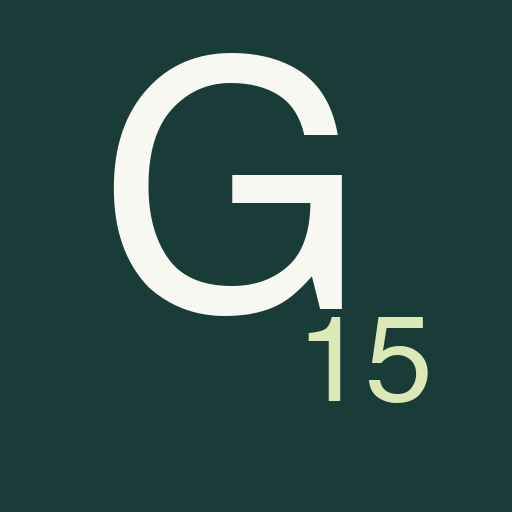
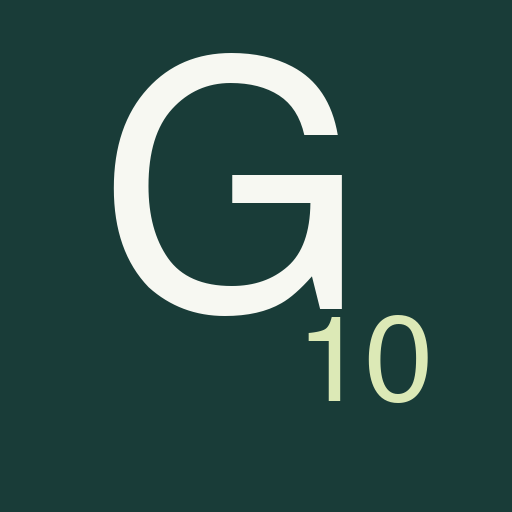
Reduce GEPT daily new word goal to 10 and preserve existing progress

Changed region(s): [[0.7188, 0.5938, 0.8438, 0.7812]]

diff --git a/source_materials/desktop-bobo/gept-daily15/app.js b/source_materials/desktop-bobo/gept-daily15/app.js
@@ -51,9 +51,9 @@ function home(){
  let exam=state.exam;let remain=exam?Math.ceil((new Date(exam+'T23:59:59')-new Date())/86400000):null;
  let days=Object.keys(state.days).filter(k=>state.days[k].answers>0);let streak=0,cursor=date;if(!days.includes(cursor))cursor=E.addDays(cursor,-1);while(days.includes(cursor)){streak++;cursor=E.addDays(cursor,-1);}
  main.innerHTML=`<div class="eyebrow">${fmt(date)} · YOUR DAILY PRACTICE</div><h1>今天，也前進一點。</h1><div class="exam-date">國中＋GEPT 初級 · ${remain===null?'每天累積基本字彙':remain>0?`距設定考試日 ${remain} 天`:'持續練習，累積實力'} <a href="#settings">調整日期</a></div>
- <section class="hero"><div class="hero-top"><div><div class="eyebrow">DAILY GOAL</div><h2>${count>=15?'今日新字完成了。':'15 個新字，<br>一步一步記牢。'}</h2><p>${st.due.length?`${st.due.length} 項能力到期複習，先喚醒記憶。`:'先懂意思，再練到能拼出來。'}</p></div><div class="ring" style="--angle:${count/15*360}deg"><div class="ring-inner"><strong>${count}<span style="font-size:14px;color:#9db3a4"> / 15</span></strong><small>今日新字</small></div></div></div><button id="startDaily" class="primary">${state.session?.queue.length?'繼續上次練習 →':count>=15&&!st.due.length?'再看看今天的成果 ✓':'開始今日練習 →'}</button></section>
+ <section class="hero"><div class="hero-top"><div><div class="eyebrow">DAILY GOAL</div><h2>${count>=10?'今日新字完成了。':'10 個新字，<br>一步一步記牢。'}</h2><p>${st.due.length?`${st.due.length} 項能力到期複習，先喚醒記憶。`:'先懂意思，再練到能拼出來。'}</p></div><div class="ring" style="--angle:${Math.min(1,count/10)*360}deg"><div class="ring-inner"><strong>${count}<span style="font-size:14px;color:#9db3a4"> / 10</span></strong><small>今日新字</small></div></div></div><button id="startDaily" class="primary">${state.session?.queue.length?'繼續上次練習 →':count>=10&&!st.due.length?'再看看今天的成果 ✓':'開始今日練習 →'}</button></section>
  <div class="stats"><div class="stat"><b>${st.learned}</b><span>已接觸單字 / ${words.length}</span></div><div class="stat"><b>${st.mastered}</b><span>跨日熟練單字</span></div><div class="stat"><b>${streak}<small style="font-size:12px"> 天</small></b><span>連續練習</span></div></div>
- <div class="section-head"><h2>今天的練習路線</h2><span class="pill">每天 15 字</span></div><div class="card"><div class="row"><div><h3>01　到期複習</h3><span class="muted">意思、拼字、動詞變化分開追蹤</span></div><b>${st.due.length}<small class="muted"> 項</small></b></div><div style="height:1px;background:var(--line);margin:15px 0"></div><div class="row"><div><h3>02　今日新字</h3><span class="muted">每個動詞連同 PT、PP 一起學</span></div><b>${newCount}<small class="muted"> 待練</small></b></div><div class="daily-strip">${Array.from({length:15},(_,i)=>`<span class="${i<count?'done':''}"></span>`).join('')}</div></div>
+ <div class="section-head"><h2>今天的練習路線</h2><span class="pill">每天 10 字</span></div><div class="card"><div class="row"><div><h3>01　到期複習</h3><span class="muted">意思、拼字、動詞變化分開追蹤</span></div><b>${st.due.length}<small class="muted"> 項</small></b></div><div style="height:1px;background:var(--line);margin:15px 0"></div><div class="row"><div><h3>02　今日新字</h3><span class="muted">每個動詞連同 PT、PP 一起學</span></div><b>${newCount}<small class="muted"> 待練</small></b></div><div class="daily-strip">${Array.from({length:10},(_,i)=>`<span class="${i<count?'done':''}"></span>`).join('')}</div></div>
  <div class="section-head"><h2>${upcoming.length?'即將認識':'今天已完成'}</h2><a href="#library" class="text-btn">全部單字</a></div>${(upcoming.length?upcoming:d.ids.slice(0,3).map(id=>byId[id])).map(w=>`<div class="card word-preview"><div><b>${esc(w.word)}</b><small>${esc(w.pos)} ${w.phonetic?' /'+esc(w.phonetic)+'/':''}</small><div class="meaning">${esc(w.meaning)}</div></div>${sound(w)}</div>`).join('')}
  <div class="safe-note">新字完成表示今天已練過；跨日熟練需每項能力在至少 3 個不同日子無提示答對。<br>複習間隔：1、3、7、14、30 天。三態不另占新字名額。</div>${notificationCard()}<footer>國中＋GEPT 初級 · 本機整理字庫 · 個人練習工具</footer>`;
  $('#startDaily').onclick=()=>startSession('daily');bindNotification();maybeAutoNotify();
@@ -127,7 +127,7 @@ function submit(rawOK,extra){let ss=state.session;if(ss.feedback)return;let t=ss
  if(!ok&&(t.retries||0)<2){ss.queue.splice(Math.min(5,ss.queue.length),0,{id:w.id,skill:t.skill,retry:true,retries:(t.retries||0)+1});}
  ss.attempts++;if(ok)ss.correct++;ss.feedback={ok,rawOK,...extra};persist();practice();setTimeout(()=>$('#next')?.scrollIntoView({behavior:'smooth',block:'nearest'}),80);}
 function finish(ss){let d=E.daily(state),st=stats();let completed=d.completed.length;
- main.innerHTML=`<div class="eyebrow">TODAY'S PROGRESS</div><div class="empty"><div class="finish-icon">✦</div><h1>${ss?.attempts?'這一回合，完成了。':'今天的記憶，已就位。'}</h1><p class="muted">${completed>=15?'15 個新字已練習，明天再讓記憶更牢。':completed+' / 15 個今日新字已完成。'}</p></div><div class="stats"><div class="stat"><b>${completed}</b><span>今日新字</span></div><div class="stat"><b>${ss?.attempts?Math.round(ss.correct/ss.attempts*100):0}%</b><span>本回合無提示答對</span></div><div class="stat"><b>${st.due.length}</b><span>仍到期的能力項目</span></div></div><div class="card"><h3>答錯的字，有下一次機會。</h3><p class="muted">今天訂正完成的題目，隔天仍會出現。隔幾天還能想起來，才是記住了。</p></div>${notificationCard()}<div class="gap">${st.due.length?'<button id="moreReview" class="primary">繼續到期複習</button>':''}<a href="#home" class="secondary">回到今日首頁</a></div>`;
+ main.innerHTML=`<div class="eyebrow">TODAY'S PROGRESS</div><div class="empty"><div class="finish-icon">✦</div><h1>${ss?.attempts?'這一回合，完成了。':'今天的記憶，已就位。'}</h1><p class="muted">${completed>=10?'10 個新字已練習，明天再讓記憶更牢。':completed+' / 10 個今日新字已完成。'}</p></div><div class="stats"><div class="stat"><b>${completed}</b><span>今日新字</span></div><div class="stat"><b>${ss?.attempts?Math.round(ss.correct/ss.attempts*100):0}%</b><span>本回合無提示答對</span></div><div class="stat"><b>${st.due.length}</b><span>仍到期的能力項目</span></div></div><div class="card"><h3>答錯的字，有下一次機會。</h3><p class="muted">今天訂正完成的題目，隔天仍會出現。隔幾天還能想起來，才是記住了。</p></div>${notificationCard()}<div class="gap">${st.due.length?'<button id="moreReview" class="primary">繼續到期複習</button>':''}<a href="#home" class="secondary">回到今日首頁</a></div>`;
  bindNotification();maybeAutoNotify();if($('#moreReview'))$('#moreReview').onclick=()=>{state.session=null;startSession('review');};
 }
 function item(w,errorMode=false){let r=state.records[w.id],bad=Object.entries(r||{}).filter(([k,x])=>x.errors>0&&(!x.lastOK||x.wins<3));return `<button class="word-item" data-detail="${esc(w.id)}"><div class="row"><div><b>${esc(w.word)}</b><span class="pos">${esc(w.pos)}</span></div><span class="pill">${!r?'未開始':E.skills(w).every(k=>r[k]?.wins>=3)?'跨日熟練':'學習中'}</span></div><p>${esc(w.meaning)}</p>${errorMode?`<div class="list-meta"><span>${bad.map(([k])=>labels[k]).join('、')}</span><span class="badge-error">累計 ${bad.reduce((n,[k,x])=>n+x.errors,0)} 次需加強</span></div>`:''}</button>`;}
@@ -138,13 +138,13 @@ function detail(w){let r=state.records[w.id]||{};modal(`<div class="eyebrow">WOR
 function errors(){let list=words.filter(w=>Object.values(state.records[w.id]||{}).some(x=>x.errors>0&&(!x.lastOK||x.wins<3)));let eligible=E.due(state,words).filter(t=>t.errors>0).length;
  main.innerHTML=`<div class="eyebrow">A LITTLE MORE PRACTICE</div><h1>錯過一次，再記牢。</h1><p class="muted">${list.length} 個單字需要加強 · ${eligible} 項能力今天到期</p>${eligible?'<button id="startErrors" class="primary">開始到期錯題複習 →</button>':''}<p class="safe-note">今天訂正後，明天仍會再練。每項能力在 3 個不同日子無提示答對，且最近一次答對，才移出錯題本。</p><div class="word-list">${list.slice(0,100).map(w=>item(w,true)).join('')||'<div class="empty"><div class="symbol">✧</div><h2>目前沒有待加強的錯題</h2><p class="muted">開始練習後，需要複習的字會自動出現在這裡。</p></div>'}</div>${list.length>100?'<p class="note">先顯示前 100 個，完成後會逐步更新。</p>':''}`;
  if($('#startErrors'))$('#startErrors').onclick=()=>startSession('errors');}
-function settings(){let st=stats();let d=E.daily(state);main.innerHTML=`<div class="eyebrow">MAKE IT YOUR ROUTINE</div><h1>適合你的練習節奏。</h1><section class="settings-section"><h2>學習目標</h2><div class="metric-line"><span>每日新字</span><b>15 個</b></div><div class="metric-line"><span>來源</span><span>本機 GEPT 初級整理字庫</span></div><p>可選填實際考試日期；未設定時不顯示倒數。</p><label for="examDate">考試日期</label><input id="examDate" type="date" value="${esc(state.exam||'')}"></section><section class="settings-section"><h2>你的累積</h2><div class="metric-line"><span>已接觸 / 跨日熟練</span><b>${st.learned} / ${st.mastered}</b></div><div class="metric-line"><span>今天無提示答對</span><span>${d.correct} / ${d.answers} 次</span></div><div class="history-bars">${Array.from({length:7},(_,i)=>{let date=E.addDays(today(),i-6),n=state.days[date]?.completed.length||0;return `<div><i style="height:${Math.max(3,n/15*55)}px"></i>${date.slice(5).replace('-','/')}</div>`;}).join('')}</div><p>最近七天完成的新字。熟練需意思、拼字，以及適用的三態都跨日答對。</p></section><section class="settings-section"><h2>進度備份</h2><p>進度存在這個瀏覽器，不會自動跨手機同步。換手機、清除瀏覽資料或移動到不同網址前，請先備份。</p><div class="gap"><button id="export" class="primary">匯出進度備份</button><label class="backup-label" for="importFile">匯入進度備份</label><input type="file" id="importFile" accept="application/json,.json"></div></section><section class="settings-section"><h2>安裝與離線</h2><button id="installButton" class="secondary">加入手機主畫面</button><p id="cacheStatus">正在檢查離線檔案…</p><p>首次開啟需連網。只有顯示「離線題庫已就緒」後，才代表核心題目已快取。朗讀是否可離線，取決於手機英文語音。</p></section><section class="settings-section"><h2>練習管理</h2><button id="endSession" class="secondary">結束目前回合，保留答題紀錄</button><p>未完成的新字仍會留在今天的練習計畫中。</p></section><section class="settings-section"><h2>題庫說明</h2><p>依本機 GEPT_2000_Bobo_clean_wordbank.xlsx 整理，共 2,101 筆；排除缺少釋義的 kong。保留原表中文、詞性與來源筆號，動詞三態與部分音標、例句沿用 PET 版資料並補充。<a href="./LICENSE-ECDICT.txt" target="_blank">字典授權</a>。</p><p>這是個人學習工具，非官方試題；整理字庫不是考試所有可能用字。例句提示與三態練習不能取代完整讀寫聽說準備。</p><p>題型以選擇約四成、拼字與動詞輸入約六成為方向，實際比例隨動詞數及到期錯題調整。一般動詞提供三態填寫；部分常用動詞另有情境句。</p></section>`;
+function settings(){let st=stats();let d=E.daily(state);main.innerHTML=`<div class="eyebrow">MAKE IT YOUR ROUTINE</div><h1>適合你的練習節奏。</h1><section class="settings-section"><h2>學習目標</h2><div class="metric-line"><span>每日新字</span><b>10 個</b></div><div class="metric-line"><span>來源</span><span>本機 GEPT 初級整理字庫</span></div><p>可選填實際考試日期；未設定時不顯示倒數。</p><label for="examDate">考試日期</label><input id="examDate" type="date" value="${esc(state.exam||'')}"></section><section class="settings-section"><h2>你的累積</h2><div class="metric-line"><span>已接觸 / 跨日熟練</span><b>${st.learned} / ${st.mastered}</b></div><div class="metric-line"><span>今天無提示答對</span><span>${d.correct} / ${d.answers} 次</span></div><div class="history-bars">${Array.from({length:7},(_,i)=>{let date=E.addDays(today(),i-6),n=state.days[date]?.completed.length||0;return `<div><i style="height:${Math.max(3,n/10*55)}px"></i>${date.slice(5).replace('-','/')}</div>`;}).join('')}</div><p>最近七天完成的新字。熟練需意思、拼字，以及適用的三態都跨日答對。</p></section><section class="settings-section"><h2>進度備份</h2><p>進度存在這個瀏覽器，不會自動跨手機同步。換手機、清除瀏覽資料或移動到不同網址前，請先備份。</p><div class="gap"><button id="export" class="primary">匯出進度備份</button><label class="backup-label" for="importFile">匯入進度備份</label><input type="file" id="importFile" accept="application/json,.json"></div></section><section class="settings-section"><h2>安裝與離線</h2><button id="installButton" class="secondary">加入手機主畫面</button><p id="cacheStatus">正在檢查離線檔案…</p><p>首次開啟需連網。只有顯示「離線題庫已就緒」後，才代表核心題目已快取。朗讀是否可離線，取決於手機英文語音。</p></section><section class="settings-section"><h2>練習管理</h2><button id="endSession" class="secondary">結束目前回合，保留答題紀錄</button><p>未完成的新字仍會留在今天的練習計畫中。</p></section><section class="settings-section"><h2>題庫說明</h2><p>依本機 GEPT_2000_Bobo_clean_wordbank.xlsx 整理，共 2,101 筆；排除缺少釋義的 kong。保留原表中文、詞性與來源筆號，動詞三態與部分音標、例句沿用 PET 版資料並補充。<a href="./LICENSE-ECDICT.txt" target="_blank">字典授權</a>。</p><p>這是個人學習工具，非官方試題；整理字庫不是考試所有可能用字。例句提示與三態練習不能取代完整讀寫聽說準備。</p><p>題型以選擇約四成、拼字與動詞輸入約六成為方向，實際比例隨動詞數及到期錯題調整。一般動詞提供三態填寫；部分常用動詞另有情境句。</p></section>`;
  $('#examDate').onchange=e=>{if(!e.target.value||/^\d{4}-\d{2}-\d{2}$/.test(e.target.value)){state.exam=e.target.value;persist();toast('已更新考試日期。');}};
  $('#export').onclick=exportBackup;$('#importFile').onchange=importBackup;$('#installButton').onclick=installHelp;
  $('#endSession').onclick=()=>{state.session=null;persist();toast('目前回合已結束，答題紀錄已保留。');};cacheStatus();
 }
 function exportBackup(){let a=document.createElement('a'),url=URL.createObjectURL(new Blob([JSON.stringify({app:'gept-daily15',exported:new Date().toISOString(),data:state},null,2)],{type:'application/json'}));a.href=url;a.download=`GEPT進度-${today()}.json`;a.click();setTimeout(()=>URL.revokeObjectURL(url),1000);toast('備份已匯出，請保存下載的 JSON 檔。');}
-async function importBackup(e){let file=e.target.files[0];if(!file)return;try{if(file.size>10e6)throw Error('備份檔案過大。');let parsed=JSON.parse(await file.text());if(parsed.app!=='gept-daily15'||!E.valid(parsed.data,words))throw Error('這不是有效的 GEPT 進度備份。');modal('<h2 class="modal-title">還原這份進度？</h2><p>這會取代目前手機上的練習進度。建議先匯出目前進度保留一份。</p><div class="gap"><button id="beforeImport" class="secondary">先匯出目前進度</button><button id="confirmImport" class="primary">確認還原</button></div>');$('#beforeImport').onclick=exportBackup;$('#confirmImport').onclick=()=>{state=parsed.data;state.settings={...state.settings,daily:15};state.session=null;writeBlocked=false;persist();$('#modal').close();settings();toast('進度已還原。');};}catch(err){toast(err.message||'無法讀取備份檔。');}e.target.value='';}
+async function importBackup(e){let file=e.target.files[0];if(!file)return;try{if(file.size>10e6)throw Error('備份檔案過大。');let parsed=JSON.parse(await file.text());if(parsed.app!=='gept-daily15'||!E.valid(parsed.data,words))throw Error('這不是有效的 GEPT 進度備份。');modal('<h2 class="modal-title">還原這份進度？</h2><p>這會取代目前手機上的練習進度。建議先匯出目前進度保留一份。</p><div class="gap"><button id="beforeImport" class="secondary">先匯出目前進度</button><button id="confirmImport" class="primary">確認還原</button></div>');$('#beforeImport').onclick=exportBackup;$('#confirmImport').onclick=()=>{state=parsed.data;state.settings={...state.settings,daily:10};state.session=null;writeBlocked=false;E.plan(state,words);persist();$('#modal').close();settings();toast('進度已還原。');};}catch(err){toast(err.message||'無法讀取備份檔。');}e.target.value='';}
 function installHelp(){if(installPrompt){installPrompt.prompt();installPrompt.userChoice.then(()=>{installPrompt=null;});return;}modal(`<div class="eyebrow">TAKE YOUR WORDS WITH YOU</div><h2 class="modal-title">加入手機主畫面</h2><h3>Android · Chrome</h3><ol class="steps"><li>用 Chrome 開啟這個網址。</li><li>點右上角「⋮」，選「加到主畫面」或「安裝應用程式」。</li><li>之後從主畫面圖示開啟練習。</li></ol><h3>iPhone</h3><p class="muted">用 Safari 開啟同一網址，點「分享」，選「加入主畫面」。Chrome 若沒有顯示對應選項，請改用 Safari。</p><h3>進度與離線</h3><p class="muted">請固定使用同一個瀏覽器／主畫面 App。先到「設定」確認離線題庫就緒，再關網路練習。發音使用手機英文語音；部分裝置需要連網。</p><p class="safe-note">目前網站為私人使用，首次開啟可能需要以建立網站的 ChatGPT 帳號登入。</p>`);}
 async function cacheStatus(){let el=$('#cacheStatus');if(!el)return;try{let names=await caches.keys();let found=false;for(let name of names.filter(n=>n.startsWith('gept15-'))){let c=await caches.open(name);if(await c.match(new URL('./words.json',location.href).href))found=true;}el.textContent=found?'✓ 離線題庫已就緒':'尚未完成離線快取，請保持連線稍候再查看。';}catch(e){el.textContent='此環境無法使用離線快取。';}}
 $('#installHelp').onclick=installHelp;
@@ -153,5 +153,5 @@ window.addEventListener('beforeinstallprompt',e=>{e.preventDefault();installProm
 window.addEventListener('hashchange',navigate);
 window.addEventListener('storage',e=>{if(e.key===KEY){try{let s=JSON.parse(e.newValue);if(E.valid(s,words)){state=s;render();toast('已同步另一個分頁的進度。');}}catch{}}});
 document.addEventListener('visibilitychange',()=>{if(document.visibilityState==='visible'&&state&&state.session?.date!==today())render();});
-async function boot(){try{let res=await fetch('./words.json');if(!res.ok)throw Error();words=await res.json();byId=Object.fromEntries(words.map(w=>[w.id,w]));state=load();if(writeBlocked){modal('<h2 class="modal-title">進度暫時無法讀取</h2><p>原有資料未被覆寫。請先下載原始資料，或匯入之前的備份。</p><button id="rawExport" class="primary">下載原始進度</button><button id="recoverFresh" class="secondary" style="margin-top:10px">已備份，建立新的進度</button>');$('#rawExport').onclick=()=>{let a=document.createElement('a');a.href=URL.createObjectURL(new Blob([localStorage.getItem(KEY)||''],{type:'application/json'}));a.download='GEPT原始進度.json';a.click();};$('#recoverFresh').onclick=()=>{writeBlocked=false;state=E.fresh();persist();$('#modal').close();render();};}navigate();if('serviceWorker'in navigator&&location.protocol!=='file:'){navigator.serviceWorker.register('./sw.js').then(()=>{navigator.serviceWorker.ready.then(()=>setTimeout(cacheStatus,1500));}).catch(()=>{});}}catch(e){main.innerHTML='<div class="empty"><h1>題庫尚未載入</h1><p>首次使用請保持連網，並透過網站網址開啟。</p><button class="primary" onclick="location.reload()">重新載入</button></div>';}}
+async function boot(){try{let res=await fetch('./words.json');if(!res.ok)throw Error();words=await res.json();byId=Object.fromEntries(words.map(w=>[w.id,w]));state=load();if(!writeBlocked)E.plan(state,words);if(writeBlocked){modal('<h2 class="modal-title">進度暫時無法讀取</h2><p>原有資料未被覆寫。請先下載原始資料，或匯入之前的備份。</p><button id="rawExport" class="primary">下載原始進度</button><button id="recoverFresh" class="secondary" style="margin-top:10px">已備份，建立新的進度</button>');$('#rawExport').onclick=()=>{let a=document.createElement('a');a.href=URL.createObjectURL(new Blob([localStorage.getItem(KEY)||''],{type:'application/json'}));a.download='GEPT原始進度.json';a.click();};$('#recoverFresh').onclick=()=>{writeBlocked=false;state=E.fresh();persist();$('#modal').close();render();};}navigate();if('serviceWorker'in navigator&&location.protocol!=='file:'){navigator.serviceWorker.register('./sw.js').then(()=>{navigator.serviceWorker.ready.then(()=>setTimeout(cacheStatus,1500));}).catch(()=>{});}}catch(e){main.innerHTML='<div class="empty"><h1>題庫尚未載入</h1><p>首次使用請保持連網，並透過網站網址開啟。</p><button class="primary" onclick="location.reload()">重新載入</button></div>';}}
 boot();

diff --git a/source_materials/desktop-bobo/gept-daily15/index.html b/source_materials/desktop-bobo/gept-daily15/index.html
@@ -1,3 +1,3 @@
 <!doctype html>
-<html lang="zh-Hant"><head><meta charset="utf-8"><meta name="viewport" content="width=device-width,initial-scale=1,viewport-fit=cover"><meta name="theme-color" content="#153e3a"><meta name="description" content="每天 15 個新字，練習國中與 GEPT 初級字彙。拼字、動詞三態與間隔複習。"><meta name="apple-mobile-web-app-capable" content="yes"><meta name="apple-mobile-web-app-status-bar-style" content="default"><link rel="manifest" href="./manifest.webmanifest"><link rel="icon" href="./icon.svg" type="image/svg+xml"><link rel="apple-touch-icon" href="./icon-192.png"><title>國中＋GEPT 初級每日15字</title><link rel="stylesheet" href="./style.css?v=1.0.1"></head>
-<body><div class="shell"><header><a href="#home" class="brand" aria-label="首頁"><span class="brand-icon">G<span>15</span></span><span>GEPT DAILY<small>每天一點，走得更遠。</small></span></a><button class="icon-btn" id="installHelp" aria-label="安裝與使用說明">?</button></header><main id="main"><p class="loading">正在準備你的單字旅程…</p></main><nav aria-label="主要導覽"><a href="#home" data-nav="home"><span>◷</span>今日</a><a href="#library" data-nav="library"><span>▤</span>單字庫</a><a href="#errors" data-nav="errors"><span>↻</span>錯題本</a><a href="#settings" data-nav="settings"><span>⚙</span>設定</a></nav></div><dialog id="modal"><button id="closeModal" class="close" aria-label="關閉">×</button><div id="modalBody"></div></dialog><div id="toast" role="status" aria-live="polite"></div><script src="./engine.js"></script><script src="./app.js?v=1.0.3" defer></script></body></html>
+<html lang="zh-Hant"><head><meta charset="utf-8"><meta name="viewport" content="width=device-width,initial-scale=1,viewport-fit=cover"><meta name="theme-color" content="#153e3a"><meta name="description" content="每天 10 個新字，練習國中與 GEPT 初級字彙。拼字、動詞三態與間隔複習。"><meta name="apple-mobile-web-app-capable" content="yes"><meta name="apple-mobile-web-app-status-bar-style" content="default"><link rel="manifest" href="./manifest.webmanifest"><link rel="icon" href="./icon.svg" type="image/svg+xml"><link rel="apple-touch-icon" href="./icon-192.png"><title>國中＋GEPT 初級每日10字</title><link rel="stylesheet" href="./style.css?v=1.0.1"></head>
+<body><div class="shell"><header><a href="#home" class="brand" aria-label="首頁"><span class="brand-icon">G<span>10</span></span><span>GEPT DAILY<small>每天一點，走得更遠。</small></span></a><button class="icon-btn" id="installHelp" aria-label="安裝與使用說明">?</button></header><main id="main"><p class="loading">正在準備你的單字旅程…</p></main><nav aria-label="主要導覽"><a href="#home" data-nav="home"><span>◷</span>今日</a><a href="#library" data-nav="library"><span>▤</span>單字庫</a><a href="#errors" data-nav="errors"><span>↻</span>錯題本</a><a href="#settings" data-nav="settings"><span>⚙</span>設定</a></nav></div><dialog id="modal"><button id="closeModal" class="close" aria-label="關閉">×</button><div id="modalBody"></div></dialog><div id="toast" role="status" aria-live="polite"></div><script src="./engine.js?v=1.0.4"></script><script src="./app.js?v=1.0.4" defer></script></body></html>

diff --git a/source_materials/desktop-bobo/gept-daily15/engine.js b/source_materials/desktop-bobo/gept-daily15/engine.js
@@ -5,7 +5,7 @@
  const addDays=(s,n)=>{let [y,m,d]=s.split('-').map(Number);return day(new Date(y,m-1,d+n,12));};
  const normalize=s=>s.trim().toLowerCase().replace(/[’‘]/g,"'").replace(/\s+/g,' ');
  const skills=w=>['meaning','spell',...(w.pt.length&&w.pp.length?['pt','pp']:[])];
- const fresh=()=>({version:1,records:{},days:{},session:null,exam:'',settings:{daily:15},history:[]});
+ const fresh=()=>({version:1,records:{},days:{},session:null,exam:'',settings:{daily:10},history:[]});
  function daily(s,date=day()){return s.days[date]||(s.days[date]={ids:[],completed:[],answers:0,correct:0});}
  function due(s,words,date=day()){
    let q=[];for(let w of words){let r=s.records[w.id];if(!r)continue;for(let k of skills(w)){let x=r[k];if(x&&x.due<=date)q.push({id:w.id,skill:k,due:x.due,errors:x.errors||0});}}
@@ -13,9 +13,11 @@
  }
  function plan(s,words,date=day()){
    let d=daily(s,date);
-   if(d.ids.length<15){let selected=new Set(d.ids);let candidates=words.filter(w=>!s.records[w.id]&&!selected.has(w.id));
+   if(d.ids.length>10){const keep=[...d.completed,...d.ids.filter(id=>!d.completed.includes(id))].slice(0,Math.max(10,d.completed.length));const removed=new Set(d.ids.filter(id=>!keep.includes(id)));d.ids=keep;if(s.session?.date===date&&['daily','new'].includes(s.session.mode)){const z=s.session;if(removed.has(z.queue[0]?.id)){z.feedback=null;z.hinted=false;}z.queue=z.queue.filter(t=>!removed.has(t.id));z.total=z.done+z.queue.length;}}
+   s.settings={...s.settings,daily:10};
+   if(d.ids.length<10){let selected=new Set(d.ids);let candidates=words.filter(w=>!s.records[w.id]&&!selected.has(w.id));
      // Interleave 3 verbs in a daily set when the pool allows it.
-     while(d.ids.length<15&&candidates.length){let count=d.ids.map(id=>words.find(w=>w.id===id)).filter(w=>w?.pt.length).length;let wantVerb=[2,7,12].includes(d.ids.length)&&count<3;let ix=wantVerb?candidates.findIndex(w=>w.pt.length&&w.pp.length):candidates.findIndex(w=>!w.pt.length);if(ix<0)ix=0;d.ids.push(candidates.splice(ix,1)[0].id);}
+     while(d.ids.length<10&&candidates.length){let count=d.ids.map(id=>words.find(w=>w.id===id)).filter(w=>w?.pt.length).length;let wantVerb=[2,7].includes(d.ids.length)&&count<2;let ix=wantVerb?candidates.findIndex(w=>w.pt.length&&w.pp.length):candidates.findIndex(w=>!w.pt.length);if(ix<0)ix=0;d.ids.push(candidates.splice(ix,1)[0].id);}
    }return d;
  }
  function start(s,words,mode='daily',date=day()){

diff --git a/source_materials/desktop-bobo/gept-daily15/sw.js b/source_materials/desktop-bobo/gept-daily15/sw.js
@@ -1,5 +1,5 @@
-const CACHE='gept15-v1.0.3';
-const FILES=['./','./index.html','./style.css?v=1.0.1','./engine.js','./app.js?v=1.0.3','./words.json','./manifest.webmanifest','./icon.svg','./icon-192.png','./icon-512.png','./LICENSE-ECDICT.txt'];
+const CACHE='gept15-v1.0.4';
+const FILES=['./','./index.html','./style.css?v=1.0.1','./engine.js?v=1.0.4','./app.js?v=1.0.4','./words.json','./manifest.webmanifest','./icon.svg','./icon-192.png','./icon-512.png','./LICENSE-ECDICT.txt'];
 self.addEventListener('install',e=>e.waitUntil(caches.open(CACHE).then(c=>c.addAll(FILES)).then(()=>self.skipWaiting())));
 self.addEventListener('activate',e=>e.waitUntil(caches.keys().then(keys=>Promise.all(keys.filter(k=>k.startsWith('gept15-')&&k!==CACHE).map(k=>caches.delete(k)))).then(()=>self.clients.claim())));
 self.addEventListener('fetch',e=>{if(e.request.method!=='GET'||new URL(e.request.url).origin!==self.location.origin)return;
